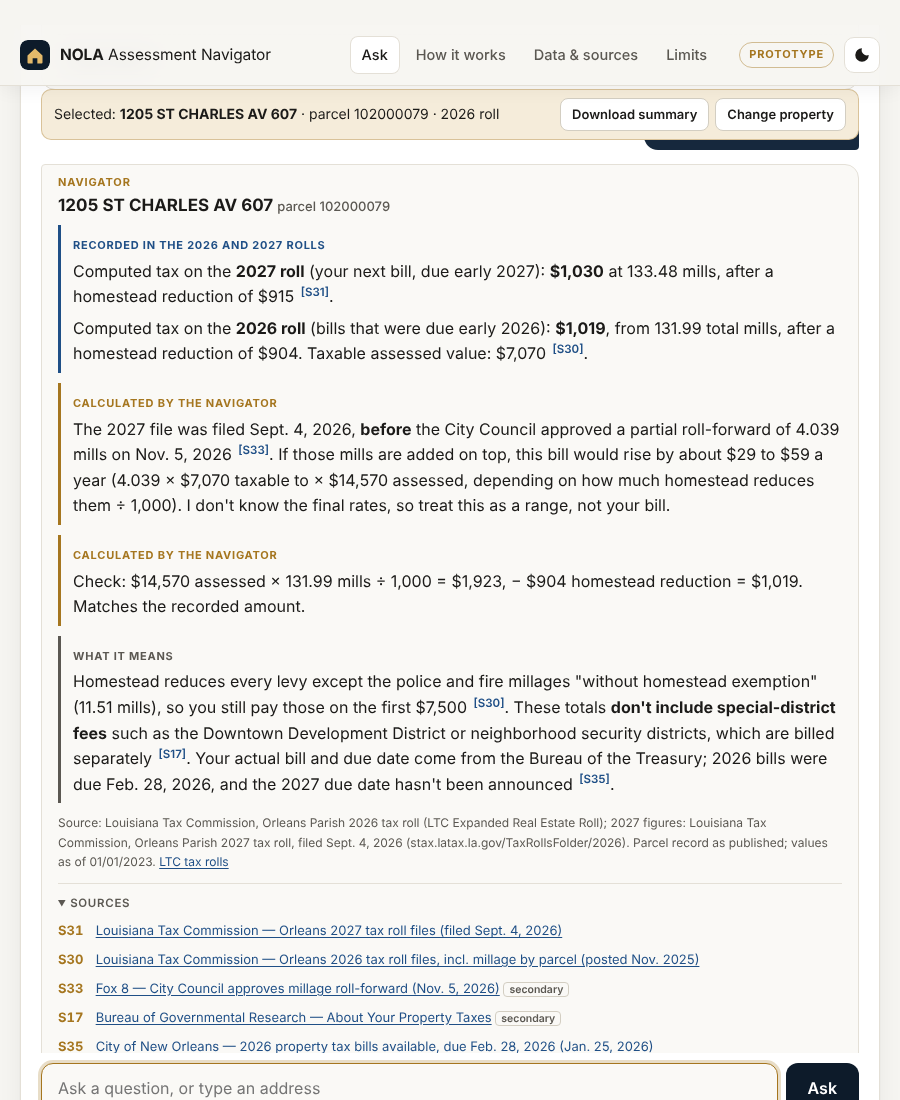
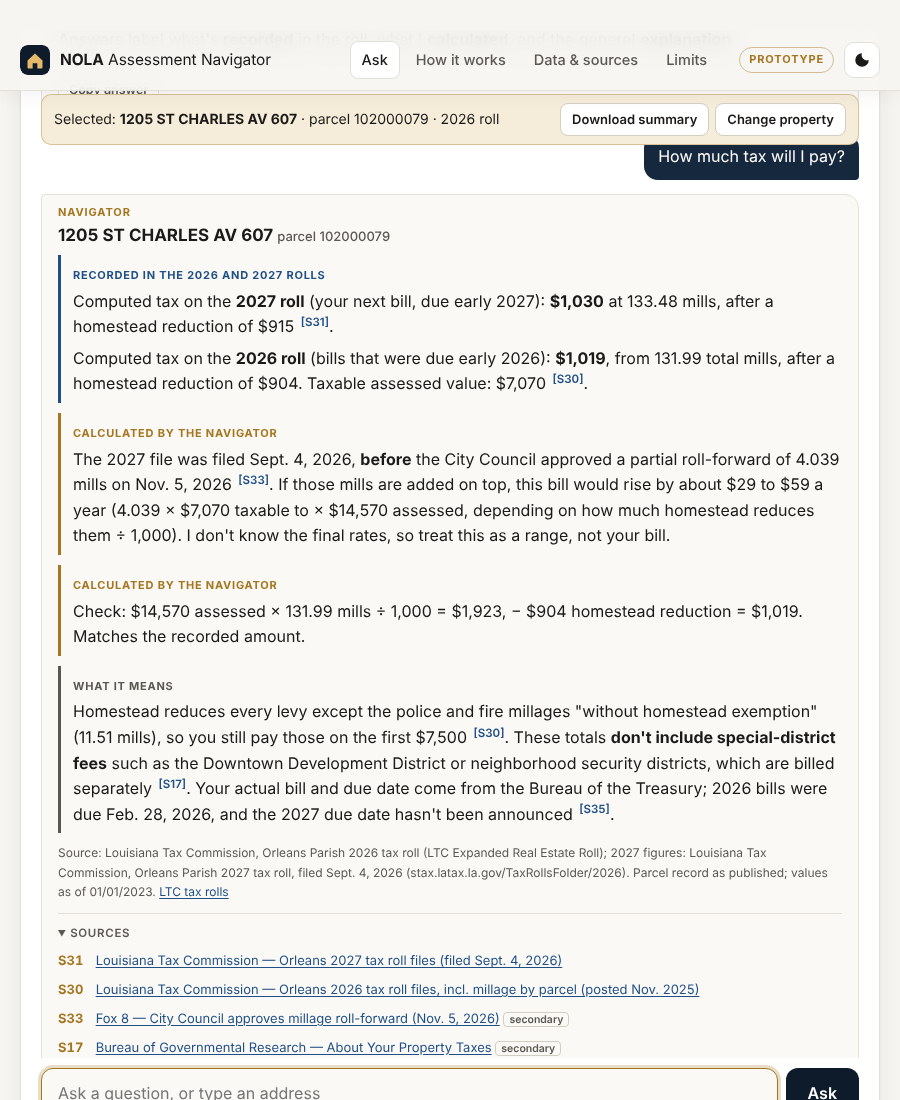
Keep the earlier page's wording: tagline, Common questions label, full data-source footer
Claude-Session: https://claude.ai/code/session_018WXvaDzDR9LYPHu9zbyuGE

Changed region(s): [[0.0311, 0.0309, 0.9644, 1.0]]

diff --git a/nola-assessment-navigator/index.html b/nola-assessment-navigator/index.html
@@ -46,7 +46,7 @@
   <section class="hero">
     <div class="wrap hero-grid">
       <div>
-        <p class="eyebrow">City of New Orleans · Orleans Parish</p>
+        <p class="eyebrow">Orleans Parish · General guidance + your property + your area</p>
         <h1>Understand your property assessment, <em>in plain language.</em></h1>
         <p class="lede">Find any of New Orleans' 163,135 properties to see its value, exemptions and tax, straight from the state's tax roll. Or ask how assessments, millage, homestead and appeals work. Every answer shows its sources.</p>
 
@@ -110,7 +110,7 @@
       </section>
 
       <section class="panel">
-        <h2>Suggested questions</h2>
+        <h2>Common questions</h2>
         <div id="chips" class="chips"></div>
       </section>
 
@@ -198,6 +198,7 @@
       <div>
         <p class="brand-foot"><strong>NOLA</strong> Assessment Navigator</p>
         <p>A student project by Ethan Zuckerman for AI and Real Estate. Not affiliated with the Orleans Parish Assessor, the City of New Orleans or the State of Louisiana. Facts last checked Nov. 16, 2026.</p>
+        <p>General answers come from a curated knowledge base; property answers come from the Louisiana Tax Commission's 2026 and 2027 Orleans Parish rolls (values as of 1/1/2023), including each parcel's computed tax; neighborhood figures come from the Census (ACS 2020–2024, block groups) and home-value trends from Zillow. Owner names are not shown.</p>
       </div>
       <div>
         <p><strong>Official offices</strong></p>
